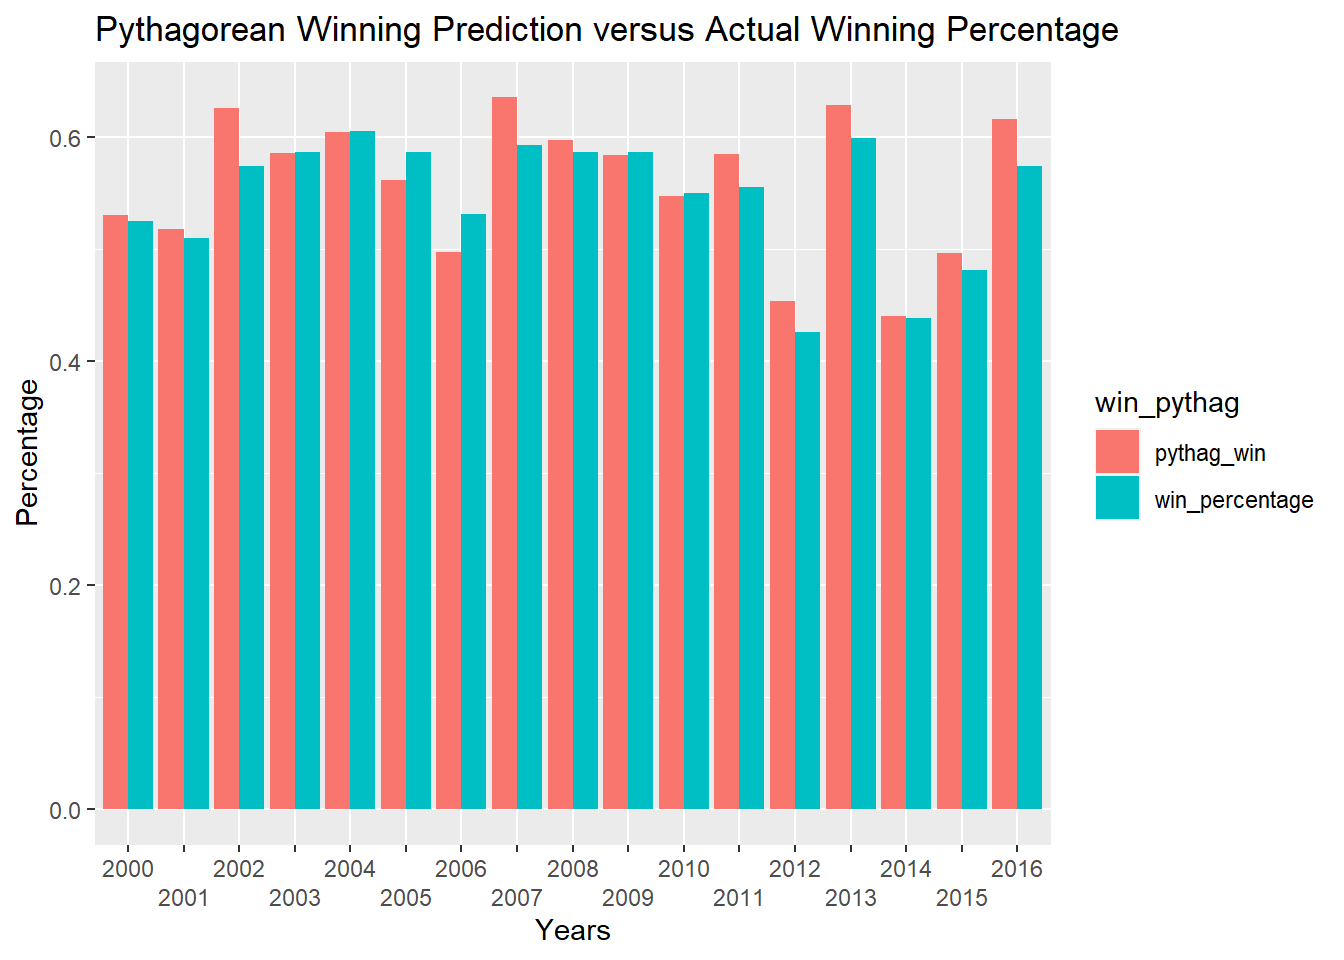
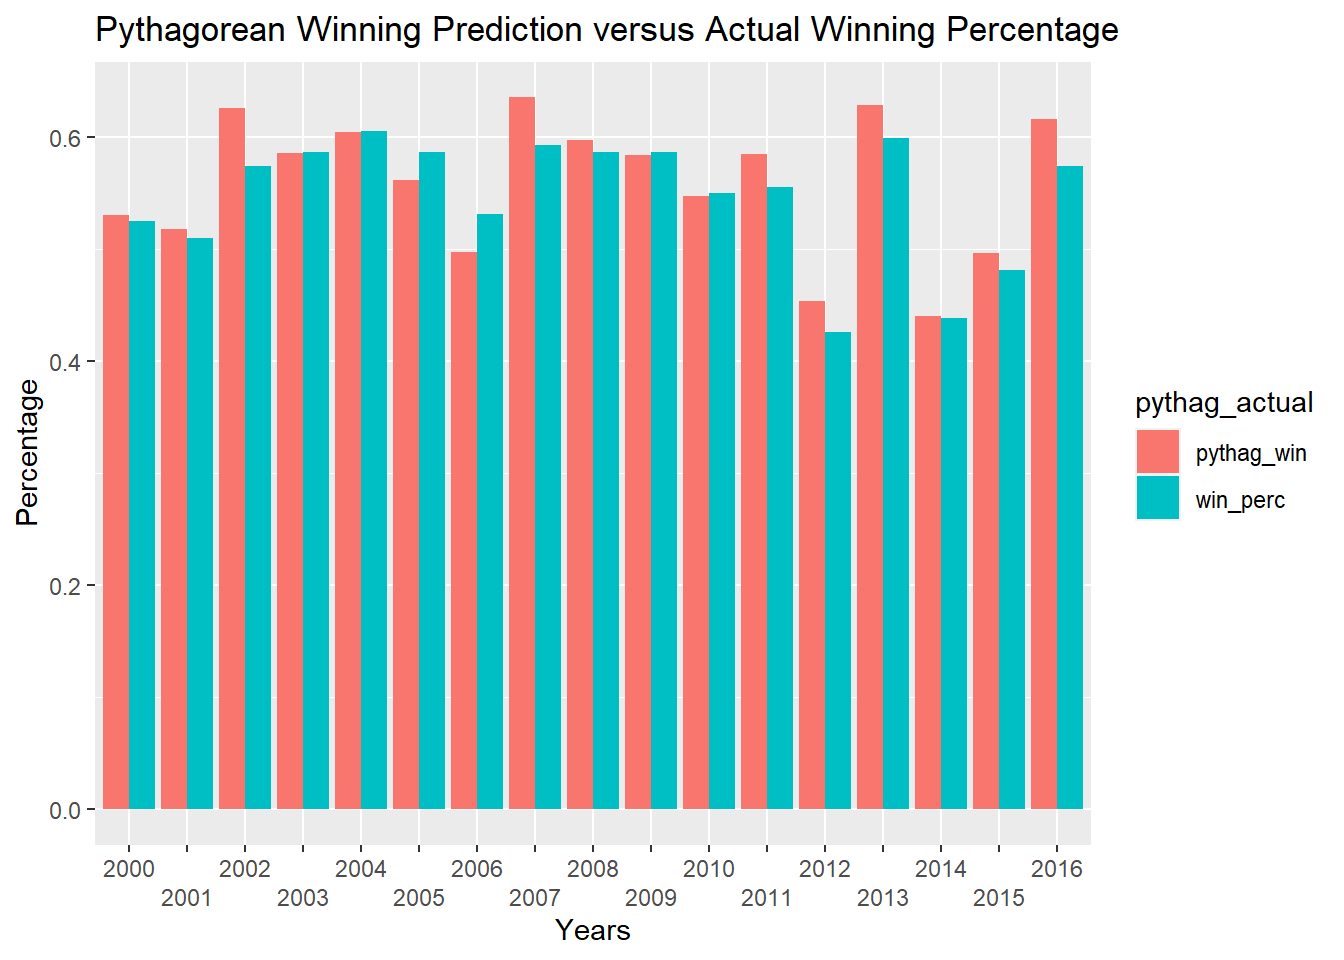
Hannah completed graph 1

diff --git a/content/post/2022-11-03-blog-post-4-week-of-10-31-2022/index.html b/content/post/2022-11-03-blog-post-4-week-of-10-31-2022/index.html
@@ -19,14 +19,12 @@ featuredImage: ~
 
 </div>
 
-<p>Two graphs EDA, one modeling graph</p>
-<p>Graph #1 - Truly Exploratory Data:</p>
-<pre class="r"><code>#Loading and cleaning the data
-library(tidyverse)</code></pre>
+<p>Before analysis, the data must be loaded and mutated with extra columns we need for analysis.</p>
+<pre class="r"><code>library(tidyverse)</code></pre>
 <pre><code>## ── Attaching packages ─────────────────────────────────────── tidyverse 1.3.2 ──
 ## ✔ ggplot2 3.3.6      ✔ purrr   0.3.4 
 ## ✔ tibble  3.1.8      ✔ dplyr   1.0.10
-## ✔ tidyr   1.2.0      ✔ stringr 1.4.1 
+## ✔ tidyr   1.2.1      ✔ stringr 1.4.1 
 ## ✔ readr   2.1.2      ✔ forcats 0.5.2 
 ## ── Conflicts ────────────────────────────────────────── tidyverse_conflicts() ──
 ## ✖ dplyr::filter() masks stats::filter()
@@ -68,84 +66,88 @@ years&lt;-c(2000,2001,2002,2003,2004,2005,2006,2007,2008,2009,2010,2011,2012,201
 ## #   h_line_score &lt;chr&gt;, v_at_bats &lt;dbl&gt;, v_hits &lt;dbl&gt;, v_doubles &lt;dbl&gt;,
 ## #   v_triples &lt;dbl&gt;, v_homeruns &lt;dbl&gt;, v_rbi &lt;dbl&gt;, v_sacrifice_hits &lt;dbl&gt;,
 ## #   v_sacrifice_flies &lt;dbl&gt;, v_hit_by_pitch &lt;dbl&gt;, v_walks &lt;dbl&gt;, …</code></pre>
-<pre class="r"><code>#Creating variables to compare a win to the starting pitcher, to see if having a certain pitcher matters towards a win
-#This is focusing specifically on Boston Red Sox in their home stadium
-(pitcher_win&lt;-baseball %&gt;% filter(h_name==&quot;BOS&quot;,h_score&gt;v_score) %&gt;% 
+<p>Graph #1 - Truly Exploratory Data:</p>
+<p>While exploring trends in the data, we set out to see if starting pitcher has an impact on the outcome. In the following code, we compare the starting pitchers in each season to both the proportion of their games played that they won, and the number of games that they won. We specifically are focusing on Boston Red Sox at their home stadium, but hope to explore more teams as well as away games in the future.</p>
+<p>The first step is to create different data sets to see the number of games each pitcher wins, the number of games each pitcher plays, and the proportion of wins to the games played.</p>
+<pre class="r"><code>(pitcher_win&lt;-baseball %&gt;% filter(h_name==&quot;BOS&quot;,h_score&gt;v_score) %&gt;% 
                            group_by(h_starting_pitcher_id,year) %&gt;% 
-                           count(h_starting_pitcher_name) %&gt;% 
+                           count(h_starting_pitcher_id) %&gt;% 
                            rename(games_won=n))</code></pre>
-<pre><code>## # A tibble: 155 × 4
+<pre><code>## # A tibble: 155 × 3
 ## # Groups:   h_starting_pitcher_id, year [155]
-##    h_starting_pitcher_id year  h_starting_pitcher_name games_won
-##    &lt;chr&gt;                 &lt;chr&gt; &lt;chr&gt;                       &lt;int&gt;
-##  1 aceva001              2013  Alfredo Aceves                  2
-##  2 arrob001              2004  Bronson Arroyo                  8
-##  3 arrob001              2005  Bronson Arroyo                  9
-##  4 arror001              2000  Rolando Arrojo                  5
-##  5 arror001              2001  Rolando Arrojo                  1
-##  6 atchs001              2010  Scott Atchison                  1
-##  7 bardd001              2012  Daniel Bard                     2
-##  8 beckj002              2006  Josh Beckett                    9
-##  9 beckj002              2007  Josh Beckett                   10
-## 10 beckj002              2008  Josh Beckett                    5
+##    h_starting_pitcher_id year  games_won
+##    &lt;chr&gt;                 &lt;chr&gt;     &lt;int&gt;
+##  1 aceva001              2013          2
+##  2 arrob001              2004          8
+##  3 arrob001              2005          9
+##  4 arror001              2000          5
+##  5 arror001              2001          1
+##  6 atchs001              2010          1
+##  7 bardd001              2012          2
+##  8 beckj002              2006          9
+##  9 beckj002              2007         10
+## 10 beckj002              2008          5
 ## # … with 145 more rows</code></pre>
 <pre class="r"><code>(pitcher_played&lt;-baseball %&gt;% filter(h_name==&quot;BOS&quot;) %&gt;% 
                               group_by(h_starting_pitcher_id,year) %&gt;% 
-                              count(h_starting_pitcher_name) %&gt;% 
+                              count(h_starting_pitcher_id) %&gt;% 
                               rename(games_played=n))</code></pre>
-<pre><code>## # A tibble: 168 × 4
+<pre><code>## # A tibble: 168 × 3
 ## # Groups:   h_starting_pitcher_id, year [168]
-##    h_starting_pitcher_id year  h_starting_pitcher_name games_played
-##    &lt;chr&gt;                 &lt;chr&gt; &lt;chr&gt;                          &lt;int&gt;
-##  1 aceva001              2011  Alfredo Aceves                     3
-##  2 aceva001              2013  Alfredo Aceves                     4
-##  3 alvaa001              2004  Abe Alvarez                        1
-##  4 arrob001              2004  Bronson Arroyo                    13
-##  5 arrob001              2005  Bronson Arroyo                    17
-##  6 arror001              2000  Rolando Arrojo                     7
-##  7 arror001              2001  Rolando Arrojo                     4
-##  8 arror001              2002  Rolando Arrojo                     2
-##  9 atchs001              2010  Scott Atchison                     1
-## 10 bardd001              2012  Daniel Bard                        4
+##    h_starting_pitcher_id year  games_played
+##    &lt;chr&gt;                 &lt;chr&gt;        &lt;int&gt;
+##  1 aceva001              2011             3
+##  2 aceva001              2013             4
+##  3 alvaa001              2004             1
+##  4 arrob001              2004            13
+##  5 arrob001              2005            17
+##  6 arror001              2000             7
+##  7 arror001              2001             4
+##  8 arror001              2002             2
+##  9 atchs001              2010             1
+## 10 bardd001              2012             4
 ## # … with 158 more rows</code></pre>
 <pre class="r"><code>(pitcher_prop&lt;-full_join(pitcher_played,pitcher_win) %&gt;% 
                mutate(prop=games_won/games_played) %&gt;% 
                replace_na(list(games_won=0,prop=0,games_played=0)))</code></pre>
-<pre><code>## Joining, by = c(&quot;h_starting_pitcher_id&quot;, &quot;year&quot;, &quot;h_starting_pitcher_name&quot;)</code></pre>
-<pre><code>## # A tibble: 168 × 6
+<pre><code>## Joining, by = c(&quot;h_starting_pitcher_id&quot;, &quot;year&quot;)</code></pre>
+<pre><code>## # A tibble: 168 × 5
 ## # Groups:   h_starting_pitcher_id, year [168]
-##    h_starting_pitcher_id year  h_starting_pitcher_name games_pla…¹ games…²  prop
-##    &lt;chr&gt;                 &lt;chr&gt; &lt;chr&gt;                         &lt;int&gt;   &lt;int&gt; &lt;dbl&gt;
-##  1 aceva001              2011  Alfredo Aceves                    3       0 0    
-##  2 aceva001              2013  Alfredo Aceves                    4       2 0.5  
-##  3 alvaa001              2004  Abe Alvarez                       1       0 0    
-##  4 arrob001              2004  Bronson Arroyo                   13       8 0.615
-##  5 arrob001              2005  Bronson Arroyo                   17       9 0.529
-##  6 arror001              2000  Rolando Arrojo                    7       5 0.714
-##  7 arror001              2001  Rolando Arrojo                    4       1 0.25 
-##  8 arror001              2002  Rolando Arrojo                    2       0 0    
-##  9 atchs001              2010  Scott Atchison                    1       1 1    
-## 10 bardd001              2012  Daniel Bard                       4       2 0.5  
-## # … with 158 more rows, and abbreviated variable names ¹games_played,
-## #   ²games_won</code></pre>
-<pre class="r"><code>#Graphing the proportion of games won to games played for each starting pitcher per season from 2000-2016.
-pitcher_win %&gt;% group_by(year) %&gt;%
-                ggplot(aes(h_starting_pitcher_id,games_won,fill=h_starting_pitcher_name))+
-                geom_col(show.legend=FALSE)+coord_flip()+
-                facet_wrap(vars(year),scales=&quot;free_y&quot;,ncol=4)+
-                labs(title=&quot;Proportion of Games Won for each Starting Picture of the Boston Red Sox&quot;)+
+##    h_starting_pitcher_id year  games_played games_won  prop
+##    &lt;chr&gt;                 &lt;chr&gt;        &lt;int&gt;     &lt;int&gt; &lt;dbl&gt;
+##  1 aceva001              2011             3         0 0    
+##  2 aceva001              2013             4         2 0.5  
+##  3 alvaa001              2004             1         0 0    
+##  4 arrob001              2004            13         8 0.615
+##  5 arrob001              2005            17         9 0.529
+##  6 arror001              2000             7         5 0.714
+##  7 arror001              2001             4         1 0.25 
+##  8 arror001              2002             2         0 0    
+##  9 atchs001              2010             1         1 1    
+## 10 bardd001              2012             4         2 0.5  
+## # … with 158 more rows</code></pre>
+<p>With these data sets, we can now graph both the proportion of games each pitcher wins and the number of games each pitcher wins. Each year corresponds to an individual season.</p>
+<pre class="r"><code>pitcher_prop %&gt;% group_by(year) %&gt;%
+                ggplot(aes(h_starting_pitcher_id,prop,fill=h_starting_pitcher_id))+
+                geom_col(show.legend=FALSE)+
+                coord_flip()+
+                facet_wrap(vars(year),scales=&quot;free_y&quot;,ncol=3)+
+                labs(title=&quot;Proportion of Games Won for each Starting Pitcher of the Boston Red Sox&quot;)+
                 xlab(&quot;Proportion&quot;)+
                 ylab(&quot;Pitcher&quot;)</code></pre>
-<p><img src="{{< blogdown/postref >}}index_files/figure-html/graph1-1.png" width="672" /></p>
+<p><img src="{{< blogdown/postref >}}index_files/figure-html/graph1cont-1.png" width="672" /></p>
+<pre class="r"><code>pitcher_win %&gt;% group_by(year) %&gt;%
+                ggplot(aes(h_starting_pitcher_id,games_won,fill=h_starting_pitcher_id))+
+                geom_col(show.legend=FALSE)+
+                coord_flip()+
+                facet_wrap(vars(year),scales=&quot;free_y&quot;,ncol=3)+
+                labs(title=&quot;Games Won for each Starting Pitcher of the Boston Red Sox&quot;)+
+                xlab(&quot;Number of Games Won&quot;)+
+                ylab(&quot;Pitcher by ID&quot;)</code></pre>
+<p><img src="{{< blogdown/postref >}}index_files/figure-html/graph1cont-2.png" width="672" /></p>
+<p>There are clearly starting pitchers that win more games than others. In this case, the number of games won offers a little better insight than the proportion of games won, since multiple pitchers only started one game and won that one game, so are given a 100% win percentage. Starting pitchers is a factor that can definitely be explored further.</p>
 <p>Graph #2 - An experiment in the accuracy of the Pythagorean Winning Percentage (PWP)</p>
-<p><span class="math display">\[Pythagroean\ Winning\ Percentage = runs\ scored\ ^{2} / (run\ scored\ ^{2} + runs\ allowed\  ^{2})\]</span>
-Compare the PWP to the actual winning percentage of the team.
-- create winning percentage column: mutate(if(h_score&gt;v_score) add column = win or TRUE )
-do a similar mutation for losses, and sum the wins divided by total
-- Pythagorean column: baseball %&gt;% mutate(pwp = h_score^2 / (h_score^2 + v_score^2))<br />
-- group by team and filter for only one team
-- plot one teams pwd vs year, and the actual winning percentage per year or season</p>
-<p>missing a group my season or group by year (however baseball works) in here somewhere</p>
+<p><span class="math display">\[Pythagroean\ Winning\ Percentage = runs\ scored\ ^{2} / (run\ scored\ ^{2} + runs\ allowed\  ^{2})\]</span></p>
 <pre class="r"><code>#win/loss column (1 = win, 0 = loss or tie)
 h_win_loss &lt;- function(h, v) {
   ifelse(h &gt; v, 1, 0)
@@ -215,27 +217,6 @@ h_allowed &lt;- baseball %&gt;% group_by(h_name, year) %&gt;% summarize(home_all
 
 teams_pythag &lt;- runs_total %&gt;% add_column(allowed_total = allowed_total$allowed_total) %&gt;% mutate(pythag_win = ((runs_total)^2)/(((runs_total)^2) + ((allowed_total)^2))) %&gt;% add_column(win_perc = win_perc$win_perc)
 
-<<<<<<< HEAD
-#barplot
-pythag %&gt;% select(year, win_percentage, pythag_win) %&gt;% 
-           pivot_longer(-year, names_to = &quot;win_pythag&quot;, values_to = &quot;percentage&quot;) %&gt;%
-           ggplot(aes(x=year, y=percentage, fill = win_pythag)) + 
-           geom_bar(stat = &quot;identity&quot;, position = &quot;dodge&quot;) + 
-           scale_x_discrete(guide = guide_axis(n.dodge=2))+ 
-          
-           labs(title = &quot;Pythagorean Winning Prediction versus Actual Winning Percentage&quot;, 
-                x = &quot;Years&quot;, 
-                y = &quot;Percentage&quot;, 
-                color = &quot;Percentage Calculation&quot;)</code></pre>
-<p><img src="{{< blogdown/postref >}}index_files/figure-html/graph2-1.png" width="672" />
-Because it can be hard to view how different these two values are, we can run a T-test and check the statistical significance of the prediction we’ve made. If we had hypothesized if this is an appropriate estimate for wins, we would accept or reject our hypothesis on the basis of the T-test:</p>
-<pre class="r"><code># different representation:
-(stat_sig &lt;- t.test(pythag$pythag_win, pythag$win_percentage, paired = TRUE))</code></pre>
-<pre><code>## 
-##  Paired t-test
-## 
-## data:  pythag$pythag_win and pythag$win_percentage
-=======
 
 #barplot for Boston Red Sox
 teams_pythag %&gt;% filter(h_name == &quot;BOS&quot;) %&gt;% 
@@ -245,13 +226,31 @@ teams_pythag %&gt;% filter(h_name == &quot;BOS&quot;) %&gt;%
   geom_bar(stat = &quot;identity&quot;, position = &quot;dodge&quot;) + 
   scale_x_discrete(guide = guide_axis(n.dodge=2)) + 
           
-  labs(title = &quot;Pythagorean Winnng Prediction versus Actual Winning Percentage&quot;, 
+           labs(title = &quot;Pythagorean Winning Prediction versus Actual Winning Percentage&quot;, 
+                x = &quot;Years&quot;, 
+                y = &quot;Percentage&quot;, 
+                color = &quot;Percentage Calculation&quot;)</code></pre>
+<pre><code>## Adding missing grouping variables: `h_name`</code></pre>
+<p><img src="{{< blogdown/postref >}}index_files/figure-html/graph2-1.png" width="672" /></p>
+<pre class="r"><code>  labs(title = &quot;Pythagorean Winnng Prediction versus Actual Winning Percentage&quot;, 
     x = &quot;Years&quot;, 
     y = &quot;Percentage&quot;, 
     color = &quot;Percentage Calculation&quot;)</code></pre>
-<pre><code>## Adding missing grouping variables: `h_name`</code></pre>
-<p><img src="{{< blogdown/postref >}}index_files/figure-html/graph2-1.png" width="672" />
-Because it can be hard to view how different these two values are, we can run a T-test and check the statistical significance of the prediction we’ve made. If we had hypothesized if this is an appropriate estimate for wins, we would accept or reject our hypothesis on the basis of the T-test:</p>
+<pre><code>## $x
+## [1] &quot;Years&quot;
+## 
+## $y
+## [1] &quot;Percentage&quot;
+## 
+## $colour
+## [1] &quot;Percentage Calculation&quot;
+## 
+## $title
+## [1] &quot;Pythagorean Winnng Prediction versus Actual Winning Percentage&quot;
+## 
+## attr(,&quot;class&quot;)
+## [1] &quot;labels&quot;</code></pre>
+<p>Because it can be hard to view how different these two values are, we can run a T-test and check the statistical significance of the prediction we’ve made. If we had hypothesized if this is an appropriate estimate for wins, we would accept or reject our hypothesis on the basis of the T-test:</p>
 <pre class="r"><code># different representation:
 bos &lt;- teams_pythag %&gt;% filter(h_name==&quot;BOS&quot;)
 (stat_sig &lt;- t.test(bos$pythag_win, bos$win_perc, paired = TRUE))</code></pre>
@@ -259,7 +258,6 @@ bos &lt;- teams_pythag %&gt;% filter(h_name==&quot;BOS&quot;)
 ##  Paired t-test
 ## 
 ## data:  bos$pythag_win and bos$win_perc
->>>>>>> f8c4830276ffe44b904995998771e1ab57c22631
 ## t = 2.0724, df = 16, p-value = 0.05475
 ## alternative hypothesis: true mean difference is not equal to 0
 ## 95 percent confidence interval:
@@ -267,7 +265,7 @@ bos &lt;- teams_pythag %&gt;% filter(h_name==&quot;BOS&quot;)
 ## sample estimates:
 ## mean difference 
 ##      0.01165376</code></pre>
-<p>Our p-value is greater than 0.05 (a value 0.05475) which indicated that our results are not statistically significant. To say that our prediction is not statistically significant from the actual winning percentage is to say the values are more or les similar and that this metric is a good predictor of wins.</p>
+<p>Our p-value is greater than 0.05 (a value 0.05475) which indicated that our results are not statistically significant. To say that our prediction is not statistically significant from the actual winning percentage is to say the values are more or less similar and that this metric is a good predictor of wins.</p>
 <p>The next step after this data exploration would be to reproduce the result for more teams.</p>
 <p>Graph #3 - A logistical model predicting wins or losses</p>
 <pre class="r"><code>baseballlog &lt;- baseball %&gt;% filter(h_name==&quot;BOS&quot;)
@@ -340,6 +338,3 @@ summary(mylogit)</code></pre>
 meandata</code></pre>
 <pre><code>##    h_errors  v_errors h_left_on_base v_left_on_base h_homeruns v_homeruns
 ## 1 0.6318083 0.6492375       7.487291       7.056645   1.089325  0.9440813</code></pre>
-<p>In Blogposts 2/3, you should have identified some of the big obvious trends in the data. One question to ask now is whether those trends are the interesting or boring part of the data. In other words, do you want to get a more detailed explanation for the trend by exploring its relationship to other variables? Or do you want to explore some other relationship that might be confounded by the major trend you identified? Overall, both of these require you to start to explore further in your data. Think about exploring both for breadth (looking at relationships among many different variables or groupings) and depth (developing a better understanding of a specific relationship and how other variables fit in).
-Additionally, now is a good time to start thinking about statistical modeling. What response variable are you interested in? What predictor variables? Are there transformations of columns that you’d need to do to create interesting predictors? What type of model do you want to fit? Linear? Logistic? Or something else? (Ask me!)
-For this week’s blog post, discuss both going deeper and broader into your EDA and your initial thoughts and results for modeling. As always, make lots of plots and try different types of plots. However, for this week’s post, only include at most 2 figures/tables/output for your EDA and at most 1 figure/table/output for the modeling. Try to put together figures that illustrate the main lesson’s you’ve learned this week.</p>
